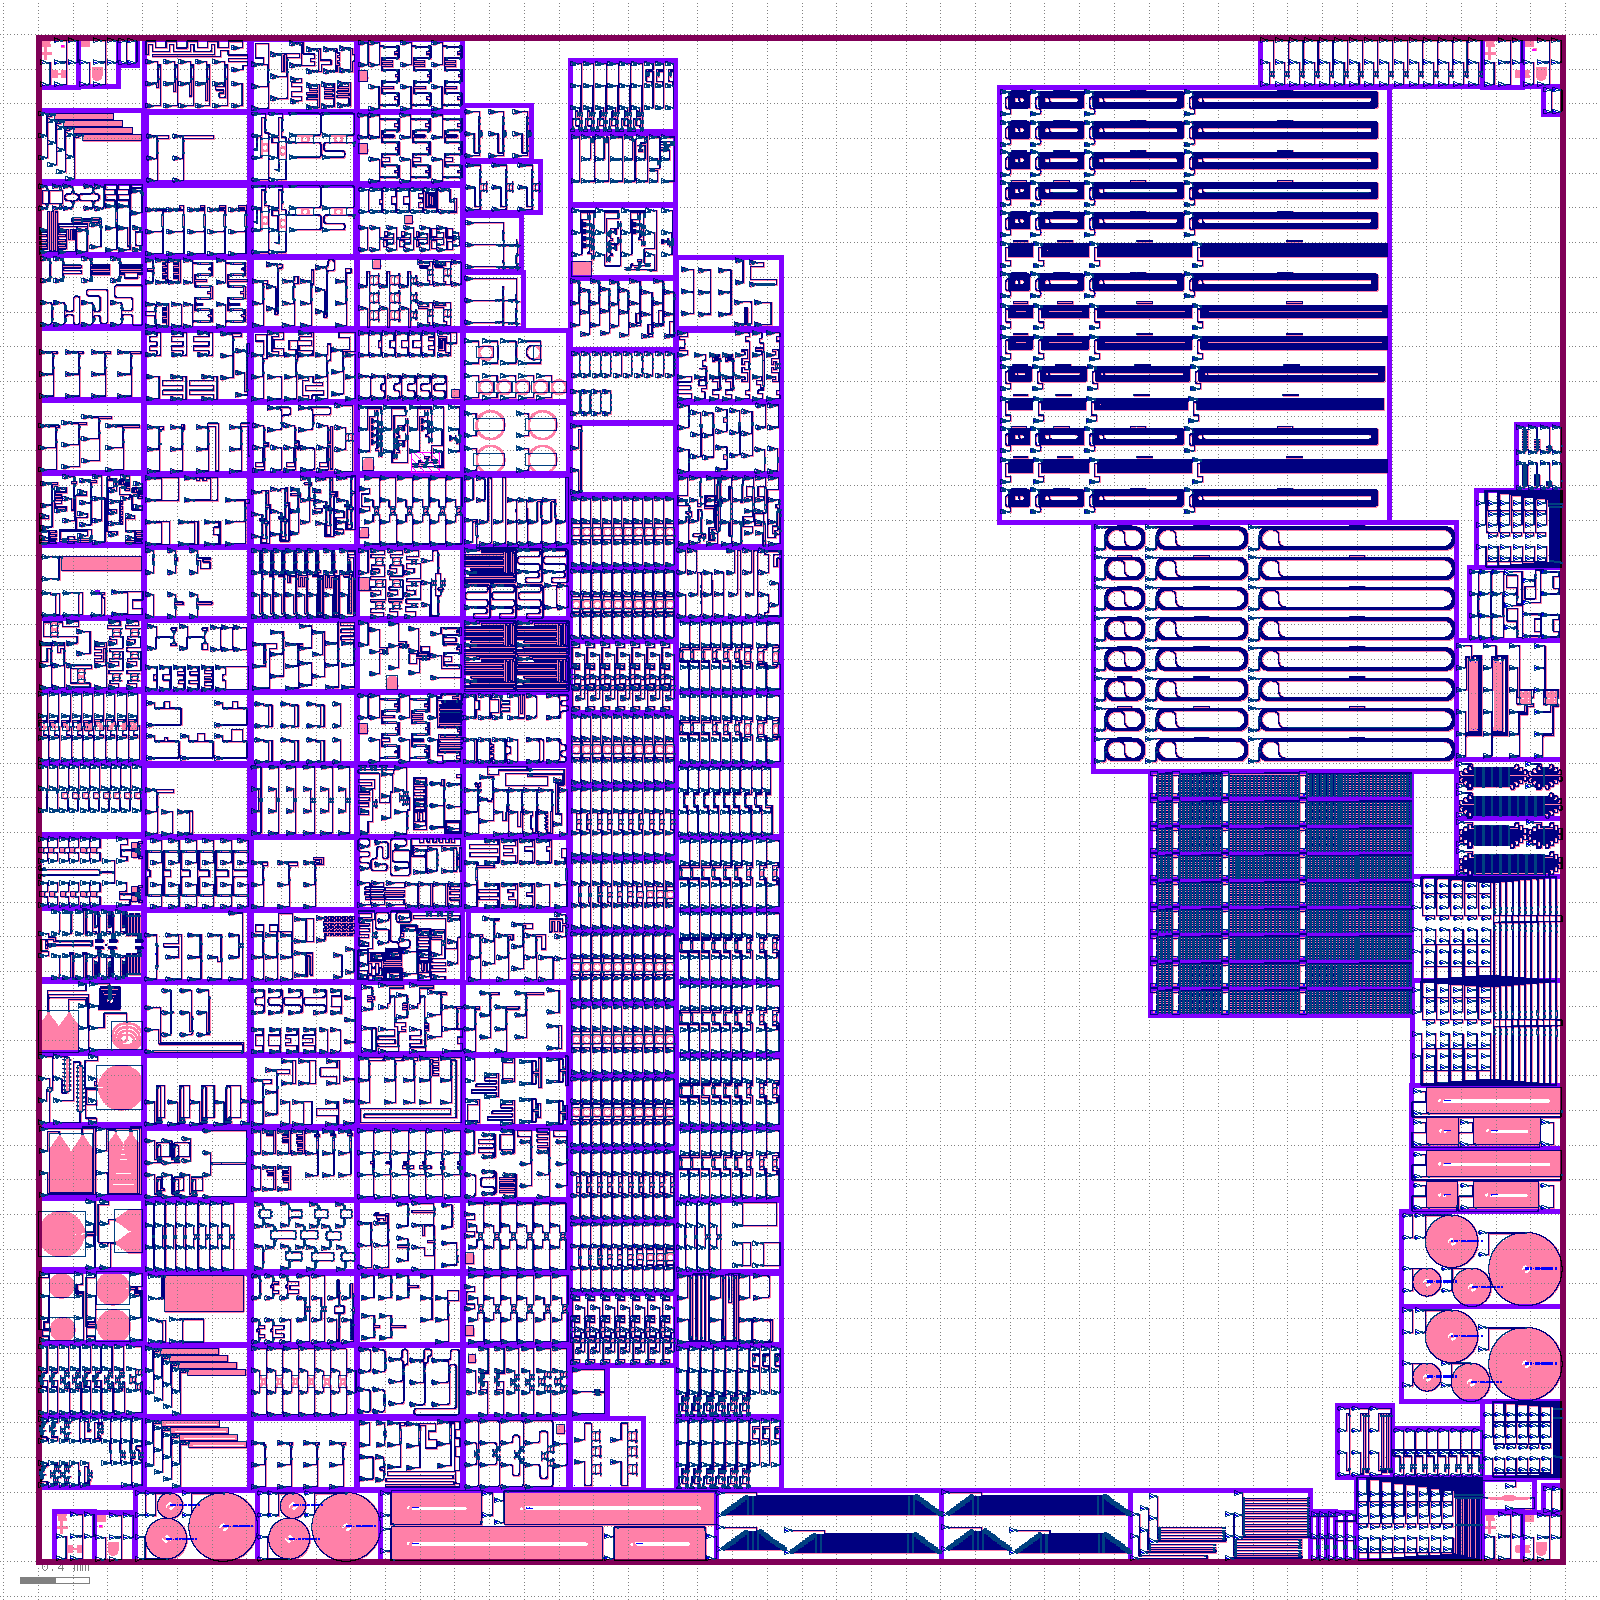
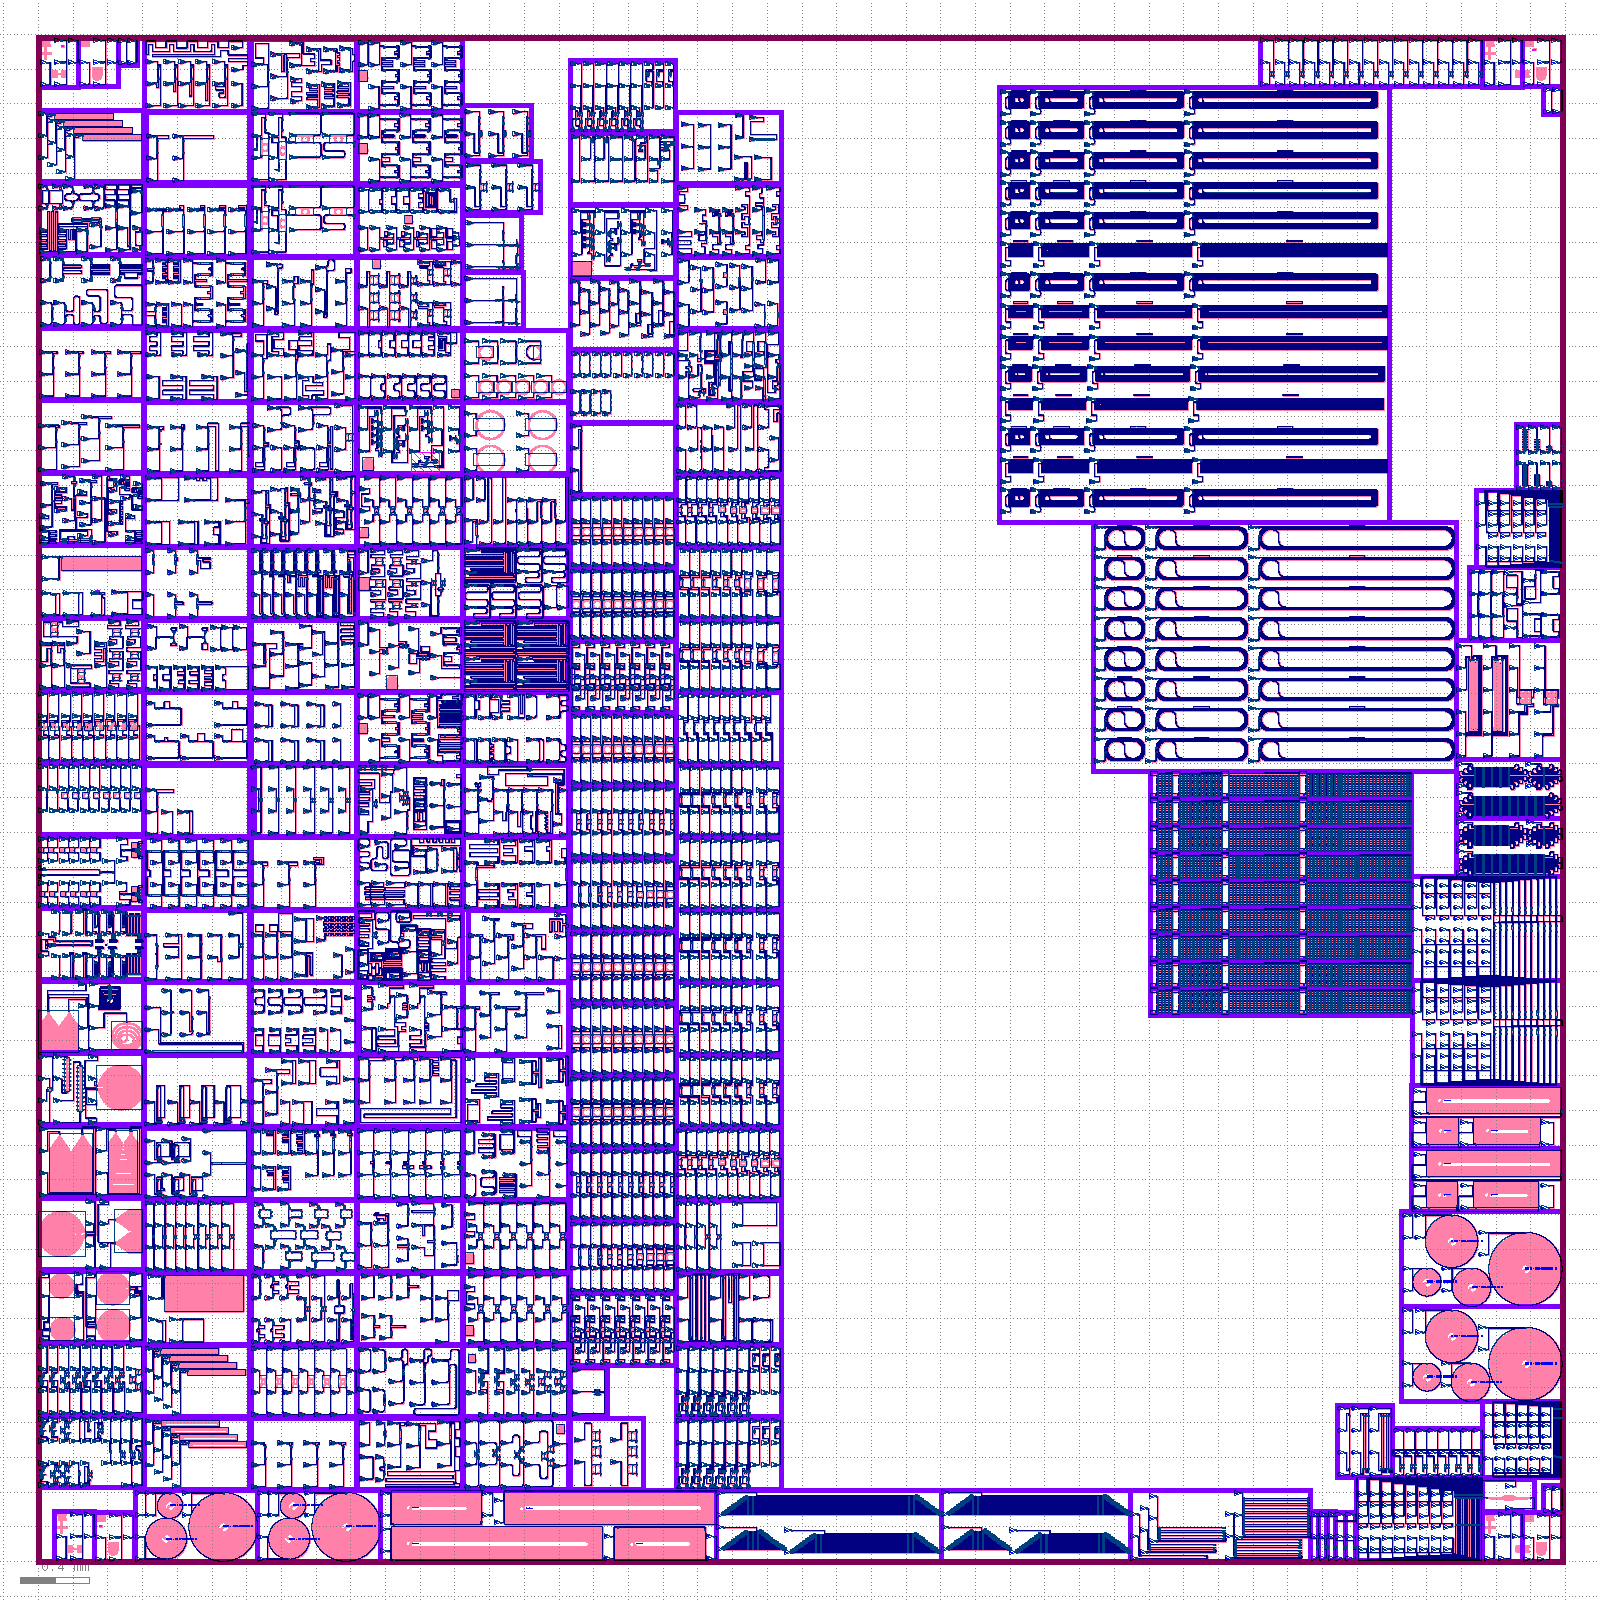
Aggregation layout: https://github.com/SiEPIC/openEBL-2026-05/actions/runs/25985835700/artifacts/7040805595

Changed region(s): [[0.4062, 0.0625, 0.5, 0.4062], [0.4062, 0.4375, 0.5, 0.5312], [0.4062, 0.6875, 0.5, 0.75]]

diff --git a/README.md b/README.md
@@ -91,5 +91,5 @@ Will be added here.
 
 Click on the following link to download the EBeam.oas merged layout file:
 <!-- start-link -->
-https://github.com/SiEPIC/openEBL-2026-05/actions/runs/25985744480/artifacts/7040776168
+https://github.com/SiEPIC/openEBL-2026-05/actions/runs/25985835700/artifacts/7040805595
 <!-- end-link -->